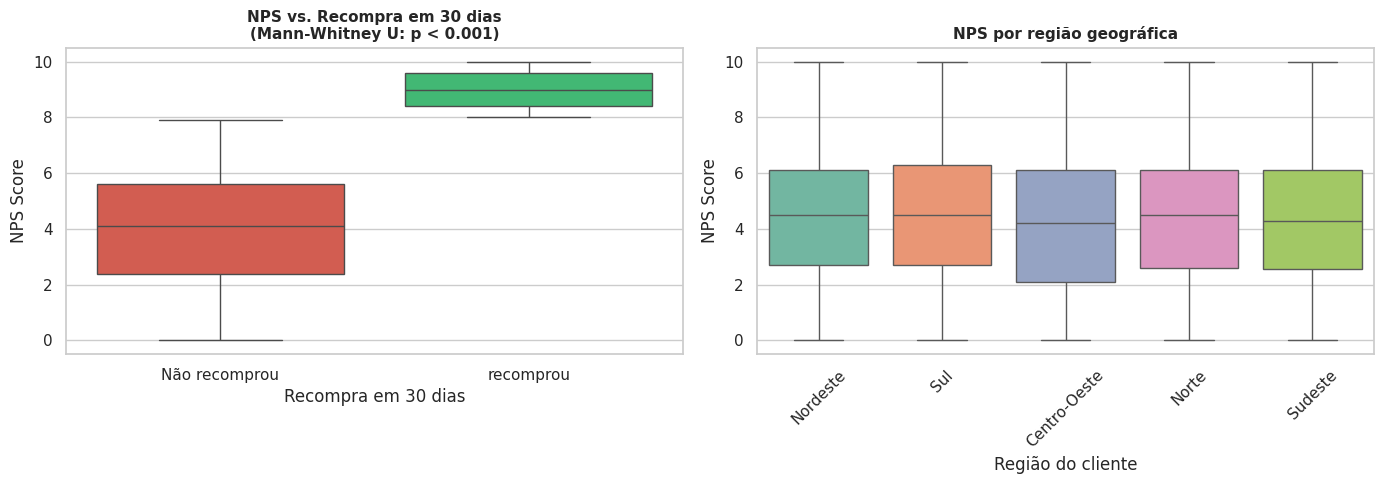
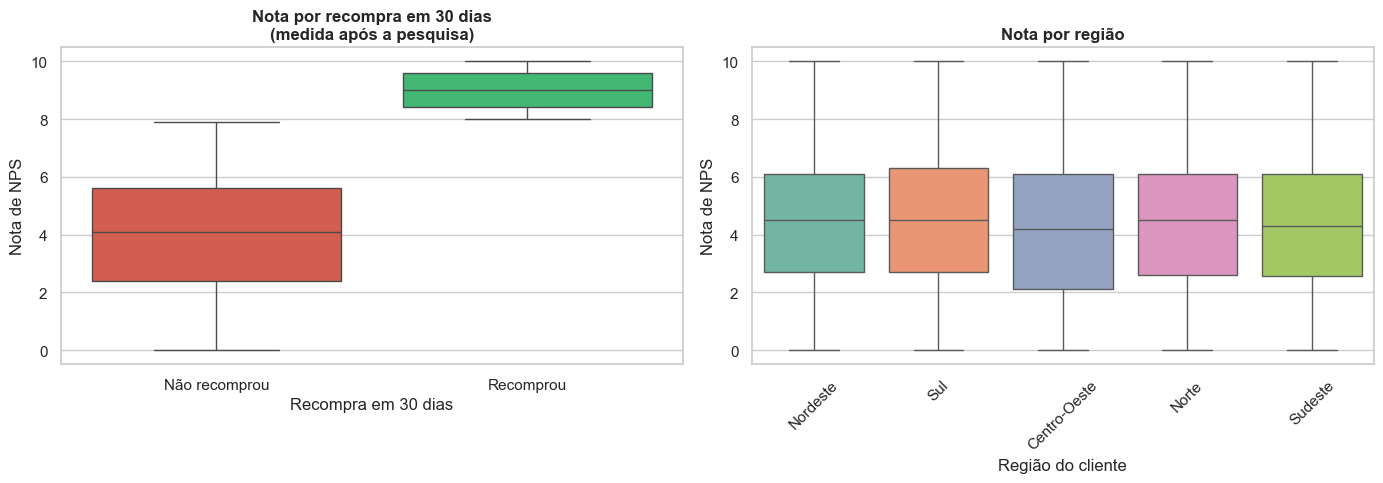
docs: atualiza readme com instrucoes de execucao do projeto

diff --git a/README.md b/README.md
@@ -1,135 +1,166 @@
-# 📊 Tech Challenge — Análise Preditiva e Diagnóstico de NPS
+# 📊 Tech Challenge: Análise Preditiva e Diagnóstico de NPS
 
-Este repositório contém a solução do **Tech Challenge (Fase 1)** da Pós-Tech em AI Scientist (FIAP). O projeto consiste em uma análise estatística e econométrica avançada sobre a base de dados de **Net Promoter Score (NPS)** de uma operação de e-commerce, visando transitar de uma gestão reativa de satisfação para um modelo preditivo focado em alavancas operacionais e logísticas.
+Solução do **Tech Challenge (Fase 1)** da Pós-Tech em AI Scientist (FIAP). A análise examina uma base de 2.500 pedidos de e-commerce para entender o que se associa à nota de NPS dos clientes e testar se essa nota pode ser estimada a partir de sinais operacionais registrados antes da pesquisa.
 
 ---
 
 ## 📌 Sumário Executivo
 
-A análise diagnosticou uma base com alto índice de insatisfação (**NPS Index Score de -66.00**), fortemente correlacionada com gargalos de atendimento (SAC) e atrasos logísticos. Através de métodos paramétricos e não paramétricos, além de regressão OLS, identificaram-se os principais *drivers* de detratores e oportunidades de retenção (recompra).
+A base tem alto índice de insatisfação: **índice NPS de −79,96**, com 84,36% de detratores, 11,24% de neutros e 4,40% de promotores.
 
-### Principais Achados
-- **Distribuição do NPS**: Média de $4.38 \pm 2.51$, com $74.04\%$ de detratores, $17.92\%$ de neutros e $8.04\%$ de promotores.
-- **Normalidade Rejeitada**: O teste de Shapiro-Wilk ($W = 0.9817, p < 0.0001$) confirmou que o NPS não segue distribuição normal, direcionando a análise para inferência não paramétrica.
-- **Drivers de Insatisfação**: As variáveis com maior correlação negativa ($r_s$ de Spearman) com o NPS foram a **quantidade de reclamações** e o **tempo de resolução no SAC**.
-- **Impacto na Recompra**: O teste de Mann-Whitney U confirmou com significância estatística ($p < 0.0001$) que clientes da *Coorte de Sucesso* (que realizam recompra em até 30 dias) possuem notas de NPS significativamente mais altas.
-- **Efeito Regional**: O teste de Kruskal-Wallis ($p > 0.05$) indicou ausência de diferença estatisticamente significante de NPS entre as regiões geográficas dos clientes.
+### Principais achados
+
+- **Distribuição da nota:** média de 4,38 (desvio padrão de 2,51). A nota não segue distribuição normal (Shapiro-Wilk: W = 0,9817, p < 0,001), o que levou ao uso de Spearman e de testes não paramétricos.
+- **Associações com a nota (Spearman):** as associações mais fortes são negativas e vêm dos sinais de atrito: atraso na entrega (ρ = −0,59), número de reclamações (ρ = −0,49), contatos com o SAC (ρ = −0,34) e tempo de resolução (ρ = −0,19). Frete, idade, parcelas, desconto e valor do pedido ficam próximos de zero.
+- **Diferença entre detratores e demais clientes:** detratores têm, em média, 2,4 dias de atraso e 4,4 reclamações, contra 1,2 dia e 2,8 reclamações nos não detratores sem recompra.
+- **Recompra:** quem recompra em 30 dias tem nota média de 9,0, contra 3,9 de quem não recompra (Mann-Whitney U, p < 0,001). Os grupos não se sobrepõem: a maior nota sem recompra é 7,9 e a menor com recompra é 8,0. Essa separação total exige investigar a origem da variável antes de ser usada como evidência.
+- **Região:** não há diferença de nota entre regiões (Kruskal-Wallis, H = 3,38, p = 0,50). O problema é sistêmico, não regional.
+- **Modelo preditivo (OLS):** com atraso, contatos com o SAC, tempo de resolução e valor do pedido, o modelo explica 53% da variação da nota no treino e 54% no teste. O erro médio absoluto é de 1,36 ponto, contra 2,07 de uma linha de base que prevê sempre a média. Nenhuma previsão chega à faixa de promotor (nota ≥ 9).
 
 ---
 
 ## 🛠 Estrutura do Projeto
 
 ```text
-├── .github/                 # Configurações do GitHub e workflows de CI/CD
-├── data/                    # Base de dados de entrada (CSV)
-│   └── desafio_nps_fase_1.csv
-├── notebooks/               # Notebooks Jupyter de análise exploratória
-│   └── tech_challenge_andre_v2.ipynb
-├── reports/                 # Relatórios e figuras geradas pela análise
-│   └── figures/
-├── src/                     # Código-fonte principal da aplicação
+├── .github/workflows/ci.yml   # Pipeline de CI: lint (flake8) e testes (pytest)
+├── data/
+│   └── desafio_nps_fase_1.csv # Base de dados de entrada
+├── notebooks/
+│   └── tech_challenge_andre_v2.ipynb  # Análise exploratória e modelagem
+├── reports/
+│   └── figures/               # Figuras geradas pelo pipeline
+├── src/
 │   ├── __init__.py
-│   └── main.py              # Pipeline de processamento e modelagem
-├── tests/                   # Suíte de testes unitários (pytest)
-│   └── test_main.py
-├── .dockerignore            # Arquivos ignorados no build do Docker
-├── .gitignore               # Arquivos ignorados pelo Git
-├── .pre-commit-config.yaml  # Configuração dos hooks do pre-commit (PEP 8)
-├── Dockerfile               # Imagem isolada do ambiente de execução
-├── environment.yml          # Especificação do ambiente Conda
-├── pytest.ini               # Configuração do pytest
-├── README.md                # Documentação do projeto
-└── requirements.txt         # Dependências pip do projeto
-
+│   └── main.py                # Pipeline de análise (funções e execução)
+├── tests/
+│   └── test_main.py           # Teste de execução do pipeline
+├── .dockerignore
+├── .flake8                    # Limite de linha (88) para o flake8
+├── .gitignore
+├── .pre-commit-config.yaml    # isort, black e flake8 antes de cada commit
+├── Dockerfile                 # Imagem isolada para executar o pipeline
+├── environment.yml            # Ambiente Conda (fonte principal de dependências)
+├── pytest.ini                 # Configuração do pytest
+├── requirements.txt           # Dependências de execução (pip)
+├── requirements-dev.txt       # Ferramentas de desenvolvimento (pip)
+└── README.md
 ```
 
 ---
 
-## 🐳 Execução via Docker (recomendado)
+## ⚙ Ambiente de Desenvolvimento (Conda)
 
-Todo o ambiente de dependências (Python, Pandas, SciPy, Scikit-Learn, Statsmodels, Matplotlib, Seaborn) foi conteinerizado para garantir reprodutibilidade total sem a necessidade de instalações locais.
+O ambiente é definido em `environment.yml`, com todas as dependências, inclusive as ferramentas de qualidade, instaladas pelo conda. Não instale pacotes do mesmo ambiente com `pip`, para evitar conflitos entre os dois gerenciadores.
 
-### Pré-requisitos
+```bash
+conda env create -f environment.yml
+conda activate desafio_nps_fase_1
+```
 
-* [Docker Desktop](https://www.docker.com/products/docker-desktop/) instalado e em execução.
+Para atualizar um ambiente já existente, recrie-o:
+
+```bash
+conda deactivate
+conda env remove -n desafio_nps_fase_1
+conda env create -f environment.yml
+```
+
+Para rodar o pipeline a partir da raiz do projeto:
+
+```bash
+python src/main.py
+```
+
+Os resultados são impressos no terminal e as figuras são salvas em `reports/figures/`.
 
 ---
 
-### Opção 1: Execução Simplificada com Docker Compose
+## 🐳 Execução via Docker
 
-Esta é a opção mais prática, pois já configura automaticamente os volumes para que os gráficos gerados no contêiner sejam salvos diretamente na pasta local `reports/figures/`.
+O Docker reproduz o ambiente sem instalações locais.
+
+**Pré-requisito:** [Docker Desktop](https://www.docker.com/products/docker-desktop/) instalado e em execução.
 
 1. **Clone o repositório:**
-```bash
-git clone [https://github.com/seu-usuario/tech-challenge-fase1-nps.git](https://github.com/seu-usuario/tech-challenge-fase1-nps.git)
-cd tech-challenge-fase1-nps
 
+```bash
+git clone https://github.com/gerferson-andre/desafio_nps_fase_1.git
+cd desafio_nps_fase_1
 ```
 
+2. **Construa a imagem:**
 
-2. **Execute a pipeline completa:**
-```bash
-docker-compose up --build
-
-```
-
-
-
----
-
-### Opção 2: Execução Direta via Docker CLI
-
-Caso prefira utilizar diretamente os comandos do Docker:
-
-1. **Construir a imagem:**
 ```bash
 docker build -t tech-challenge-nps .
-
 ```
 
+3. **Execute o pipeline e salve as figuras na pasta local `reports/`:**
 
-2. **Rodar o contêiner com mapeamento da pasta de relatórios:**
 ```bash
-docker run --rm -v $(pwd)/reports:/app/reports tech-challenge-nps
-
+docker run --rm -v "$(pwd)/reports:/app/reports" tech-challenge-nps
 ```
 
+No PowerShell do Windows, use `${PWD}` no lugar de `$(pwd)`:
 
-*(No PowerShell do Windows, substitua `$(pwd)` por `${PWD}`)*
-3. **Executar a suíte de testes dentro do contêiner:**
+```powershell
+docker run --rm -v "${PWD}/reports:/app/reports" tech-challenge-nps
+```
+
+4. **Execute a suíte de testes dentro do contêiner:**
+
 ```bash
 docker run --rm tech-challenge-nps pytest
-
 ```
 
+---
 
+## 📈 Etapas do Pipeline
+
+O arquivo `src/main.py` executa as etapas abaixo, nesta ordem.
+
+1. **Diagnóstico da base:** dimensões, tipos, valores ausentes, duplicatas e estatística descritiva.
+2. **Variável-alvo:** classificação em Detratores (nota < 7), Neutros (7 a 8,9) e Promotores (≥ 9), sem arredondamento, e cálculo do índice NPS.
+3. **Normalidade:** teste de Shapiro-Wilk e gráficos (histograma com cortes e Q-Q plot).
+4. **Associações:** coeficientes de Spearman entre cada variável e a nota, e matriz de correlação completa.
+5. **Diagnóstico operacional:** comparação de médias entre a base total, os detratores e dois grupos de não detratores (com e sem recompra em 30 dias).
+6. **Testes de grupo:**
+   - Mann-Whitney U para recompra em 30 dias, com verificação de separação entre os grupos.
+   - Kruskal-Wallis para região geográfica.
+7. **Incerteza da média:** intervalo de confiança de 95% pela distribuição t de Student e por bootstrap (2.000 reamostras) sobre a base inteira.
+8. **Modelo preditivo (OLS):** regressão linear com divisão de 80% para treino e 20% para teste, validação com métricas (MAE, RMSE e R²) e comparação com a linha de base.
 
 ---
 
-## 📈 Etapas da Pipeline Executada no Contêiner
+## 🔒 Variáveis e Cuidados com Vazamento de Dados
 
-1. **Sanitização e Diagnóstico de Dados**: leitura, checagem de tipos, detecção de nulos/duplicados e estatística descritiva completa das variáveis numéricas.
-2. **Análise Descritiva do NPS**: cálculo de centro, dispersão, assimetria/curtose e classificação oficial (Detratores, Neutros, Promotores).
-3. **Diagnóstico SLA e Segmentação**: tabela comparativa de médias operacionais entre a média geral da base, detratores e a *Coorte de Sucesso*.
-4. **Testes Formais de Normalidade**: avaliação por Shapiro-Wilk e exportação de gráficos (Histograma/KDE e Q-Q Plot).
-5. **Análise de Correlação e Heatmap**: coeficientes de correlação de Spearman para identificação de força e direção das variáveis em relação ao NPS.
-6. **Inferência Estatística e Amostragem**: construção de Intervalos de Confiança a 95% via t-Student e Bootstrap (2.000 iterações).
-7. **Testes de Hipótese Não Paramétricos**:
-* **Mann-Whitney U**: avaliação de diferenças de NPS em função da recompra em 30 dias (`repeat_purchase_30d`).
-* **Kruskal-Wallis**: avaliação de variabilidade de NPS entre regiões geográficas (`customer_region`).
-
-
-8. **Modelagem Preditiva Econométrica (OLS)**: ajuste de modelo de regressão linear para explicação e predição da nota de NPS com métricas de avaliação ($R^2$, MAE, RMSE) no conjunto de teste.
+- **Preditores do modelo:** atraso na entrega, contatos com o SAC, tempo de resolução e valor do pedido.
+- **Excluídas do modelo:** `repeat_purchase_30d` (recompra em 30 dias) e `csat_internal_score` (satisfação interna). Ambas são medidas junto ou depois da pesquisa. Elas aparecem nas análises descritivas, sinalizadas como tal.
+- **A confirmar:** o momento em que contatos com o SAC e tempo de resolução são registrados. Se forem posteriores à pesquisa, o modelo deve ser refeito sem essas variáveis.
 
 ---
 
-## 🧪 Qualidade de Código e CI/CD
+## 🧪 Qualidade de Código e CI
 
-O repositório está integrado com:
+- **Pre-commit** (`.pre-commit-config.yaml`): executa isort, black e flake8 a cada commit.
+- **Limite de linha:** 88 caracteres, definido tanto em `.flake8` quanto no hook do pre-commit.
+- **GitHub Actions** (`.github/workflows/ci.yml`): a cada push ou pull request, roda o flake8 sobre `src` e `tests` e executa a suíte com pytest.
 
-* **Testes Unitários**: executados via `pytest` validando os módulos e transformações.
-* **Hooks de Pre-commit**: garantia de formatação e padrões de código.
-* **GitHub Actions**: esteira de CI em `.github/workflows/ci.yml` que valida o build da imagem Docker e executa a suíte de testes automatizados a cada *push* ou *pull request*.
+Para rodar as verificações localmente:
+
+```bash
+flake8 src tests
+pre-commit run --all-files
+python -m pytest
+```
+
+---
+
+## ⚠ Limitações
+
+- **Associação não é causa.** Os coeficientes e o modelo descrevem associações. Reduzir atrasos ou contatos com o SAC precisa ser testado antes de ser tratado como efeito garantido.
+- **Base de um único período.** A base não tem datas, então os resultados descrevem estes 2.500 pedidos.
+- **Separação entre recompra e nota.** Enquanto a origem dessa variável não for esclarecida, a comparação com recompra serve como diagnóstico.
+- **Faixas de ação não definidas.** O projeto não estabelece os cortes de risco que a operação usaria.
 
 ---
 
@@ -138,5 +169,3 @@ O repositório está integrado com:
 **Gerferson André Silva Costa**
 
 Pós-Graduação Tech em AI Scientist — FIAP
-
-```
